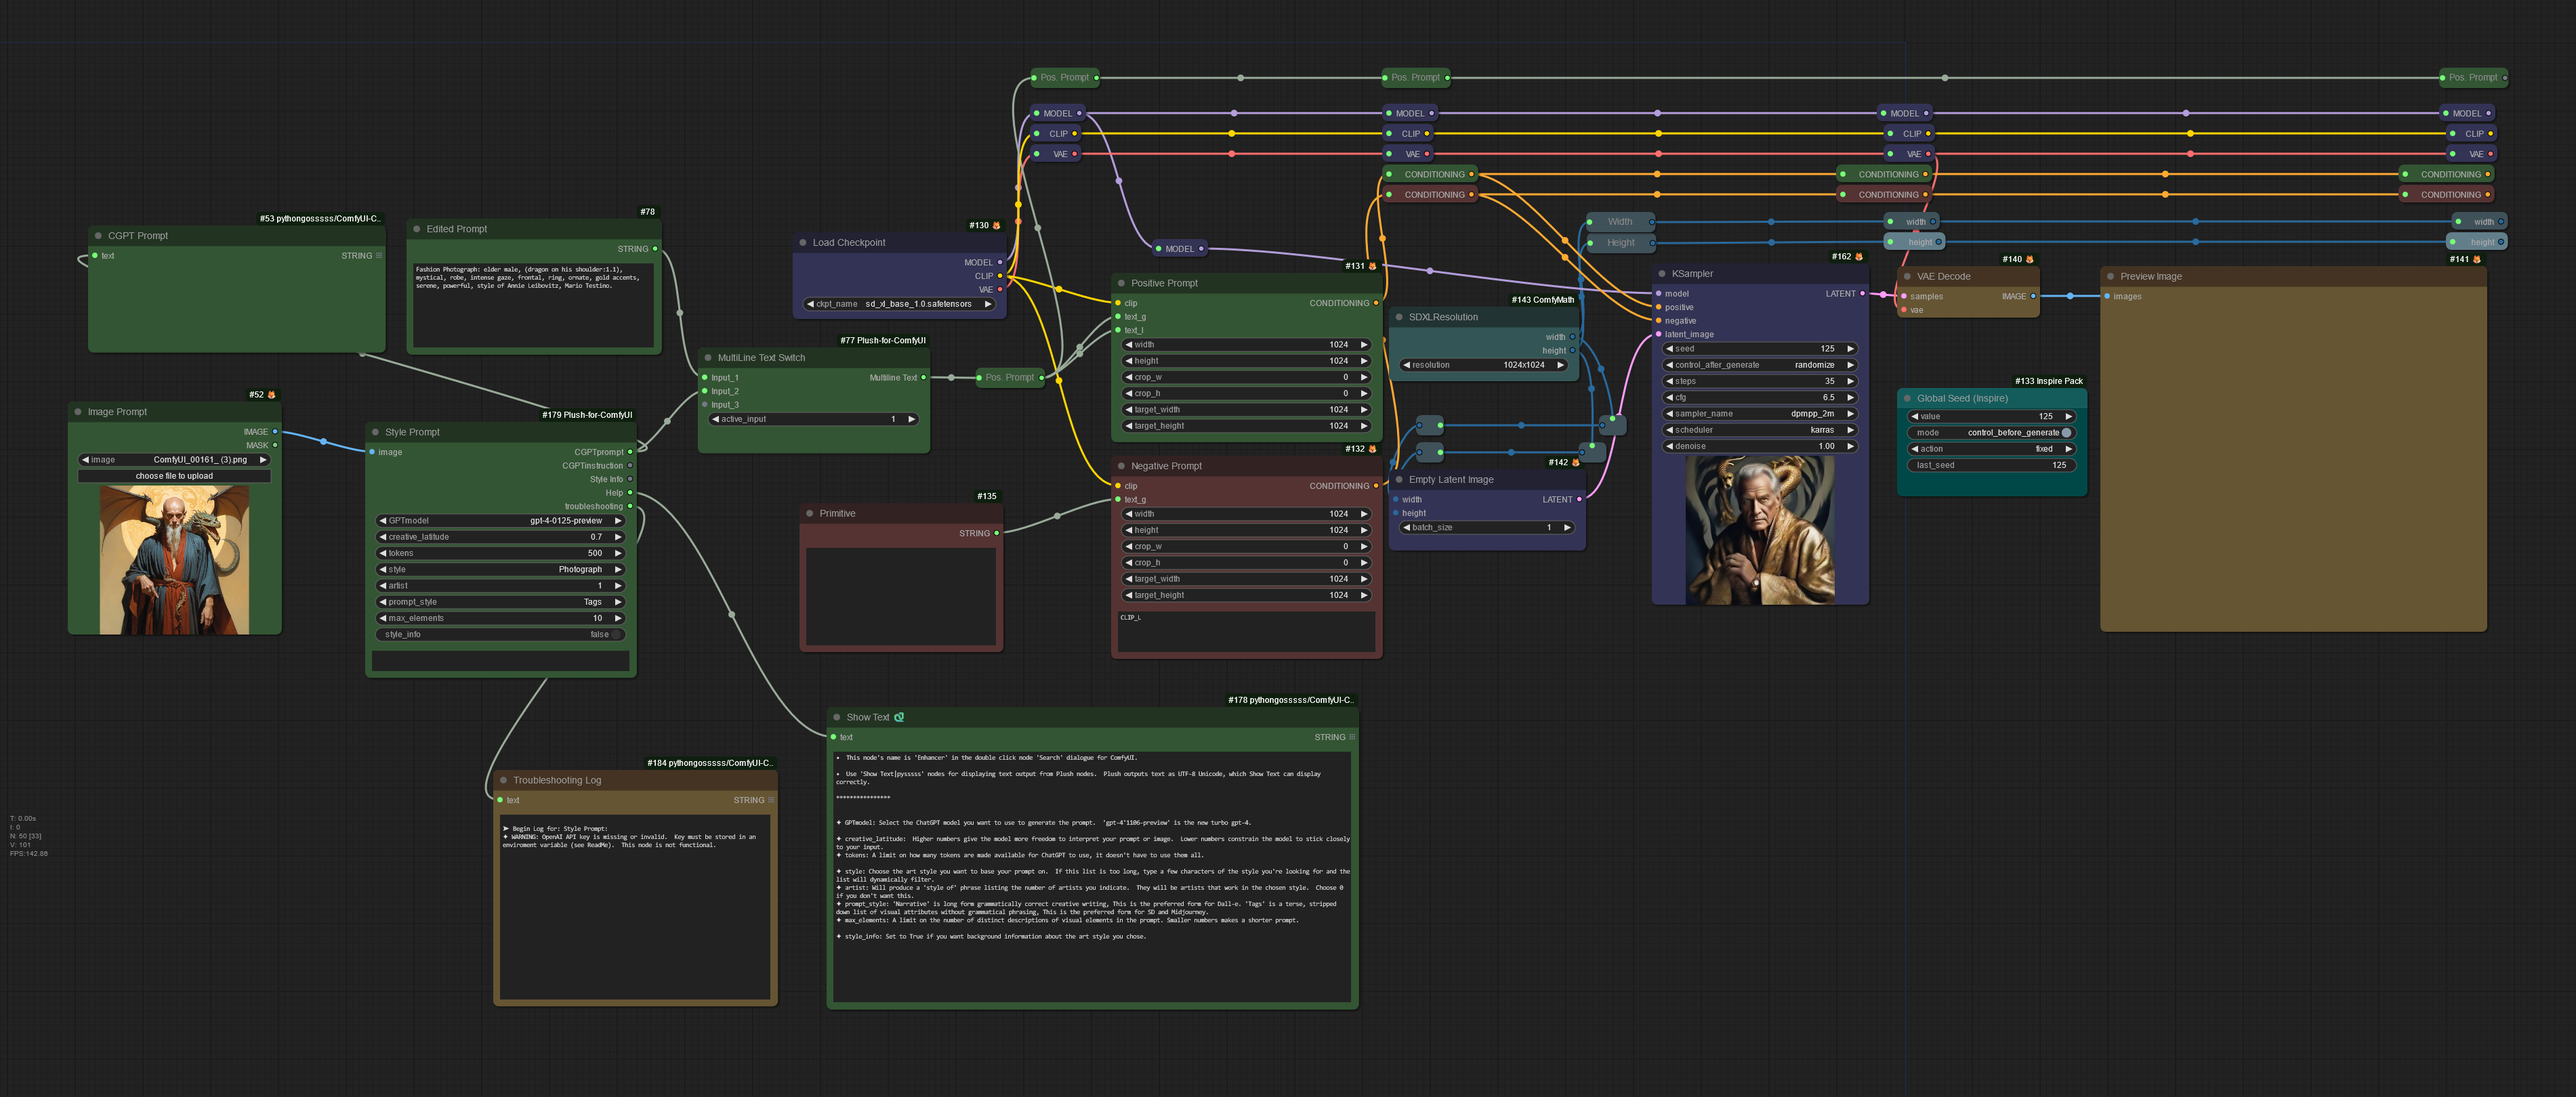
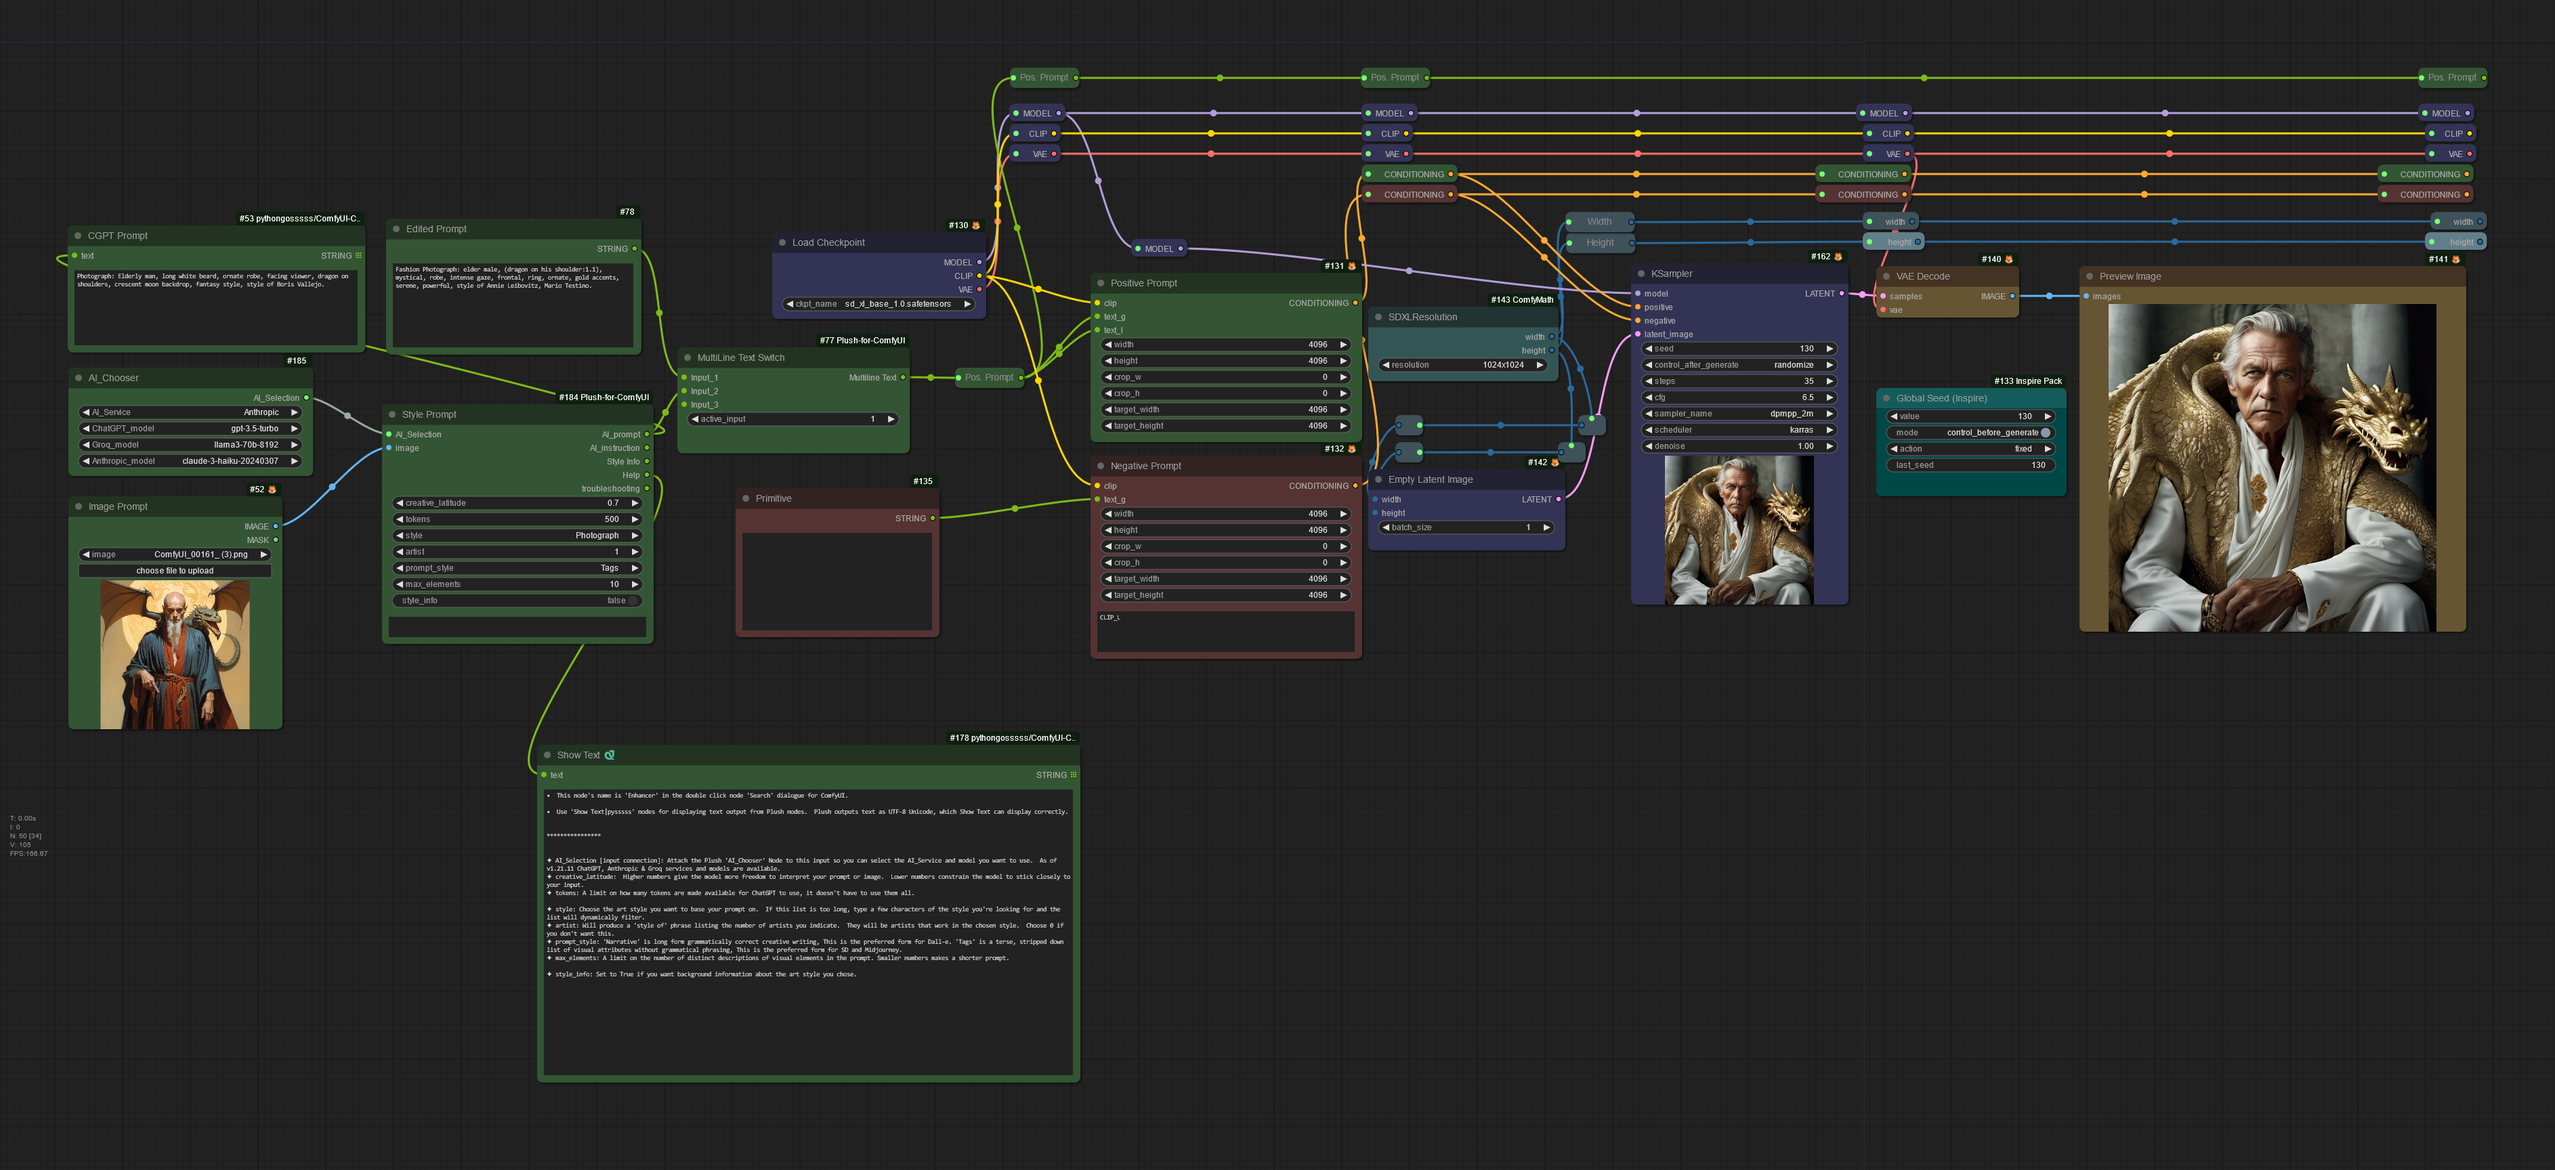
version 1.21.11

Changed region(s): [[0.0, 0.0309, 0.9926, 0.9259], [0.3102, 0.5864, 0.4032, 0.6173]]

diff --git a/style_prompt.py b/style_prompt.py
@@ -367,6 +367,69 @@ class cFigSingleton:
         if self._fig_key:
             return self.figOAIClient
         return None
+    
+class AI_Chooser:
+    def __init__(self):
+        #instantiate Configuration and Help data classes
+        self.cFig = cFigSingleton()
+        self.help_data = helpSgltn()
+        self.j_mngr = json_manager()
+        self.trbl = TroubleSgltn()
+
+    @staticmethod
+    def select_request_mode(user_selection:str) -> RequestMode:
+         
+        mode_map = {
+            "ChatGPT": RequestMode.OPENAI,
+            "Groq": RequestMode.GROQ,
+            "Anthropic": RequestMode.CLAUDE,
+            "LM_Studio": RequestMode.LMSTUDIO,
+            "Local app (URL)": RequestMode.OPENSOURCE,
+            "OpenAI compatible http POST": RequestMode.OPENSOURCE,
+            "http POST Simplified Data": RequestMode.OSSIMPLE,
+            "Oobabooga API-URL": RequestMode.OOBABOOGA
+        }
+        return mode_map.get(user_selection)
+        
+
+    @classmethod
+    def INPUT_TYPES(cls):
+        cFig=cFigSingleton()
+
+        #Floats have a problem, they go over the max value even when round and step are set, and the node fails.  So I set max a little over the expected input value
+        return {
+            "required": {
+                "AI_Service": (["ChatGPT", "Groq", "Anthropic"], {"default": "ChatGPT"}),
+                "ChatGPT_model": (cFig.get_chat_models(True,'gpt'), {"default": ""}),
+                "Groq_model": (cFig.get_groq_models(True), {"default": ""}), 
+                "Anthropic_model": (cFig.get_claude_models(True), {"default": ""}),                                  
+            },
+            "hidden": {
+                "unique_id": "UNIQUE_ID",
+            }
+        } 
+
+    RETURN_TYPES = ("DICTIONARY",)
+    RETURN_NAMES = ("AI_Selection",)
+
+    FUNCTION = "gogo"
+
+    OUTPUT_NODE = False
+
+    CATEGORY = "Plush/Prompt"  
+
+    def gogo(self, unique_id, AI_Service, ChatGPT_model, Groq_model, Anthropic_model):  
+
+        ai_dict = {"service": AI_Chooser.select_request_mode(AI_Service), "model": None}
+
+        if ai_dict['service'] == RequestMode.OPENAI and ChatGPT_model != "none":
+            ai_dict['model'] = ChatGPT_model
+        elif ai_dict['service'] == RequestMode.GROQ and Groq_model != "none":
+            ai_dict['model'] = Groq_model
+        elif ai_dict['service'] == RequestMode.CLAUDE and Anthropic_model != "none":
+            ai_dict['model'] = Anthropic_model
+
+        return (ai_dict,)
 
 
 class Enhancer:
@@ -454,7 +517,7 @@ class Enhancer:
         #Floats have a problem, they go over the max value even when round and step are set, and the node fails.  So I set max a little over the expected input value
         return {
             "required": {
-                "GPTmodel": (cFig.get_chat_models(True, 'gpt'),{"default": ""} ),
+                #"GPTmodel": (cFig.get_chat_models(True, 'gpt'),{"default": ""} ),
                 "creative_latitude" : ("FLOAT", {"max": 1.201, "min": 0.1, "step": 0.1, "display": "number", "round": 0.1, "default": 0.7}),                  
                 "tokens" : ("INT", {"max": 8000, "min": 20, "step": 10, "default": 500, "display": "number"}),                
                 "style": (cFig.style,{"default": "Photograph"}),
@@ -467,13 +530,14 @@ class Enhancer:
                 "unique_id": "UNIQUE_ID",
             },
             "optional": {  
+                "AI_Selection":("DICTIONARY", {"default": None}),
                 "prompt": ("STRING",{"multiline": True, "default": ""}),          
                 "image" : ("IMAGE", {"default": None})
             }
         } 
 
     RETURN_TYPES = ("STRING", "STRING", "STRING", "STRING","STRING")
-    RETURN_NAMES = ("CGPTprompt", "CGPTinstruction","Style Info", "Help","troubleshooting")
+    RETURN_NAMES = ("AI_prompt", "AI_instruction","Style Info", "Help","troubleshooting")
 
     FUNCTION = "gogo"
 
@@ -482,23 +546,31 @@ class Enhancer:
     CATEGORY = "Plush/Prompt"
  
 
-    def gogo(self, GPTmodel, creative_latitude, tokens, style, artist, prompt_style, max_elements, style_info, prompt="", image=None, unique_id=None):
+    def gogo(self, creative_latitude, tokens, style, artist, prompt_style, max_elements, style_info, AI_Selection=None, prompt="", image=None, unique_id=None):
 
         if unique_id:
             self.trbl.reset('Style Prompt, Node #'+unique_id)
         else:
             self.trbl.reset('Style Prompt')
-
+        
         _help = self.help_data.style_prompt_help
         CGPT_prompt = ""
         instruction = ""
         CGPT_styleInfo = ""
 
+        if AI_Selection:       
+            ais_model = AI_Selection['model']
+        else:
+            self.j_mngr.log_events("You must connect the  Plush AI_Chooser to the AI_Selection Input and choose an AI_Service and model to use",
+                                   TroubleSgltn.Severity.ERROR,
+                                   True)
+            CGPT_prompt = "Plush AI_Chooser not connected to AI_Selection input, or missing input values"
+            return(CGPT_prompt, instruction, CGPT_styleInfo, _help, self.trbl.get_troubles())
+
         # unconnected UI elements get passed in as the string "undefined" by ComfyUI
         image = self.undefined_to_none(image)
         prompt = self.undefined_to_none(prompt)
-        #Translate any friendly model names
-        GPTmodel = self.translateModelName(GPTmodel)       
+        #Translate any friendly model names    
 
         #Convert PyTorch.tensor to B64encoded image
         if isinstance(image, torch.Tensor):
@@ -516,15 +588,23 @@ class Enhancer:
 
         instruction = self.build_instruction(mode, style, prompt_style, max_elements, artist)  
 
-        self.ctx.request = rqst.oai_object_request()
-        self.cFig.lm_request_mode = RequestMode.OPENAI
+        self.cFig.lm_request_mode = AI_Selection['service']
+
+        if AI_Selection['service'] == RequestMode.OPENAI:
+            self.ctx.request = rqst.oai_object_request()
+        elif AI_Selection['service'] == RequestMode.GROQ:
+            self.ctx.request = rqst.oai_object_request()
+            # set the url so the function making the request will have a properly initialized object.               
+            self.cFig.lm_url = "https://api.groq.com/openai/v1" # Ugh!  I've embedded a 'magic value' URL here for the OPENAI API Object because the GROQ API object looks flakey...
+        elif AI_Selection['service'] == RequestMode.CLAUDE:
+            self.ctx.request = rqst.claude_request()
 
         if style_info:
             self.trbl.set_process_header("Art Style Info:")
             #User has request information about the art style.  GPT will provide it
             sty_prompt = f"Give an 150 word backgrounder on the art style: {style}.  Starting with describing what it is, include information about its history and which artists represent the style."
 
-            kwargs = { "model": GPTmodel,
+            kwargs = { "model": ais_model,
                 "creative_latitude": creative_latitude,
                 "tokens": tokens,
                 "prompt": sty_prompt,
@@ -532,7 +612,7 @@ class Enhancer:
             CGPT_styleInfo = self.ctx.execute_request(**kwargs)
             self.trbl.pop_header()
 
-        kwargs = { "model": GPTmodel,
+        kwargs = { "model": ais_model,
             "creative_latitude": creative_latitude,
             "tokens": tokens,
             "prompt": prompt,
@@ -578,7 +658,7 @@ class AdvPromptEnhancer:
         #refresh the ui after the initial load.
         return {
             "required": {
-                "AI_service": (["ChatGPT", "Groq", "Anthropic", "Local app (URL)", "OpenAI compatible http POST", "http POST Simplified Data", "Oobabooga API-URL"], {"default": "ChatGPT"}),
+                "AI_service": (["ChatGPT", "Groq", "Anthropic", "LM_Studio", "Local app (URL)", "OpenAI compatible http POST", "http POST Simplified Data", "Oobabooga API-URL"], {"default": "ChatGPT"}),
                 "ChatGPT_model": (cFig.get_chat_models(True,'gpt'), {"default": ""}),
                 "Groq_model": (cFig.get_groq_models(True), {"default": ""}), 
                 "Anthropic_model": (cFig.get_claude_models(True), {"default": ""}),                  
@@ -709,7 +789,7 @@ class AdvPromptEnhancer:
             return(claude_result, _help, self.trbl.get_troubles())
 
         
-        if AI_service == "OpenAI compatible http POST":
+        if AI_service == "OpenAI compatible http POST" or AI_service == "LM_Studio":
             if not LLM_URL:
                 self.j_mngr.log_events("'OpenAI compatible http POST' specified, but no URL provided or URL is invalid. Enter a valid URL",
                                     TroubleSgltn.Severity.WARNING,
@@ -717,7 +797,11 @@ class AdvPromptEnhancer:
                 return(llm_result, _help, self.trbl.get_troubles())  
             
             self.ctx.request = rqst.oai_web_request()
-            self.cFig.lm_request_mode = RequestMode.OPENSOURCE
+            
+            if AI_service == "LM_Studio":
+                self.cFig.lm_request_mode = RequestMode.LMSTUDIO
+            else:
+                self.cFig.lm_request_mode = RequestMode.OPENSOURCE
 
             llm_result = self.ctx.execute_request(**kwargs)
 
@@ -1206,6 +1290,7 @@ class ImageInfoExtractor:
 # NOTE: names should be globally unique
 NODE_CLASS_MAPPINGS = {
     "Enhancer": Enhancer,
+    "AI Chooser": AI_Chooser,
     "AdvPromptEnhancer": AdvPromptEnhancer,
     "DalleImage": DalleImage,
     "Plush-Exif Wrangler" :ImageInfoExtractor
@@ -1214,6 +1299,7 @@ NODE_CLASS_MAPPINGS = {
 # A dictionary that contains the friendly/humanly readable titles for the nodes
 NODE_DISPLAY_NAME_MAPPINGS = {
     "Enhancer": "Style Prompt",
+    "AI Chooser": "AI_Chooser",
     "AdvPromptEnhancer": "Advanced Prompt Enhancer",
     "DalleImage": "OAI Dall_e Image",
     "ImageInfoExtractor": "Exif Wrangler"

diff --git a/api_requests.py b/api_requests.py
@@ -159,7 +159,11 @@ class oai_object_request(Request): #Concrete class
 
         messages = []
 
-        messages = self.utils.build_data_multi(prompt, instruction, example_list, image)
+        #Use basic data structure if there is no image
+        if not image:
+            messages = self.utils.build_data_basic(prompt, example_list, instruction)
+        else:
+            messages = self.utils.build_data_multi(prompt, instruction, example_list, image)
             
         if not prompt and not image and not instruction:
             # User has provided no prompt, file or image
@@ -289,7 +293,7 @@ class oai_web_request(Request):
         key = ""
         if request_type == self.mode.OPENAI:
             key =  self.cFig.key
-        elif request_type == self.mode.OPENSOURCE or request_type == self.mode.OOBABOOGA:
+        elif request_type == self.mode.OPENSOURCE or request_type == self.mode.LMSTUDIO:
             key = self.cFig.lm_key
         elif request_type == self.mode.GROQ:
             key = self.cFig.groq_key
@@ -300,10 +304,16 @@ class oai_web_request(Request):
                 
         headers = self.utils.build_web_header(key) 
 
-        if request_type == self.mode.OSSIMPLE:
+        if request_type == self.mode.OSSIMPLE or not image:
             messages = self.utils.build_data_basic(prompt, example_list, instruction) #Some apps can't handle an embedded list of role:user dicts
+            self.j_mngr.log_events("Using Basic data structure",
+                                   TroubleSgltn.Severity.INFO,
+                                   True)
         else:
             messages = self.utils.build_data_multi(prompt,instruction,example_list, image)
+            self.j_mngr.log_events("Using Complex data structure",
+                                   TroubleSgltn.Severity.INFO,
+                                   True)
 
         params = {
         "model": GPTmodel,

diff --git a/fetch_models.py b/fetch_models.py
@@ -13,6 +13,7 @@ class RequestMode(Enum):
     GROQ = 5
     GEMINI = 6
     OSSIMPLE = 7
+    LMSTUDIO = 8
 
 class ModelFetchStrategy(ABC):
  
@@ -104,7 +105,7 @@ class FetchModels:
             self.strategy = FetchByMethod()
 
         elif request_type == RequestMode.CLAUDE:
-            model_names = ['claude-3-haiku-20240307', 'claude-3-sonnet-20240229', 'claude-3-5-sonnet-20240620', 'claude-3-opus-20240229']
+            model_names = ['claude-3-haiku-20240307', 'claude-3-sonnet-20240229', 'claude-3-opus-20240229']
             return ModelsContainer(model_names)
         
         elif request_type == RequestMode.GEMINI:
@@ -165,4 +166,3 @@ class ModelContainer:
             models.sort()
 
         return models
-    

diff --git a/__init__.py b/__init__.py
@@ -18,7 +18,7 @@ if jmanager.on_startup(False):
 else:
     jmanager.log_events("config.json was not updated")
 
-__version__ ="1.21.10"
+__version__ ="1.21.11"
 print('Plush - Version:', __version__)
 
 
